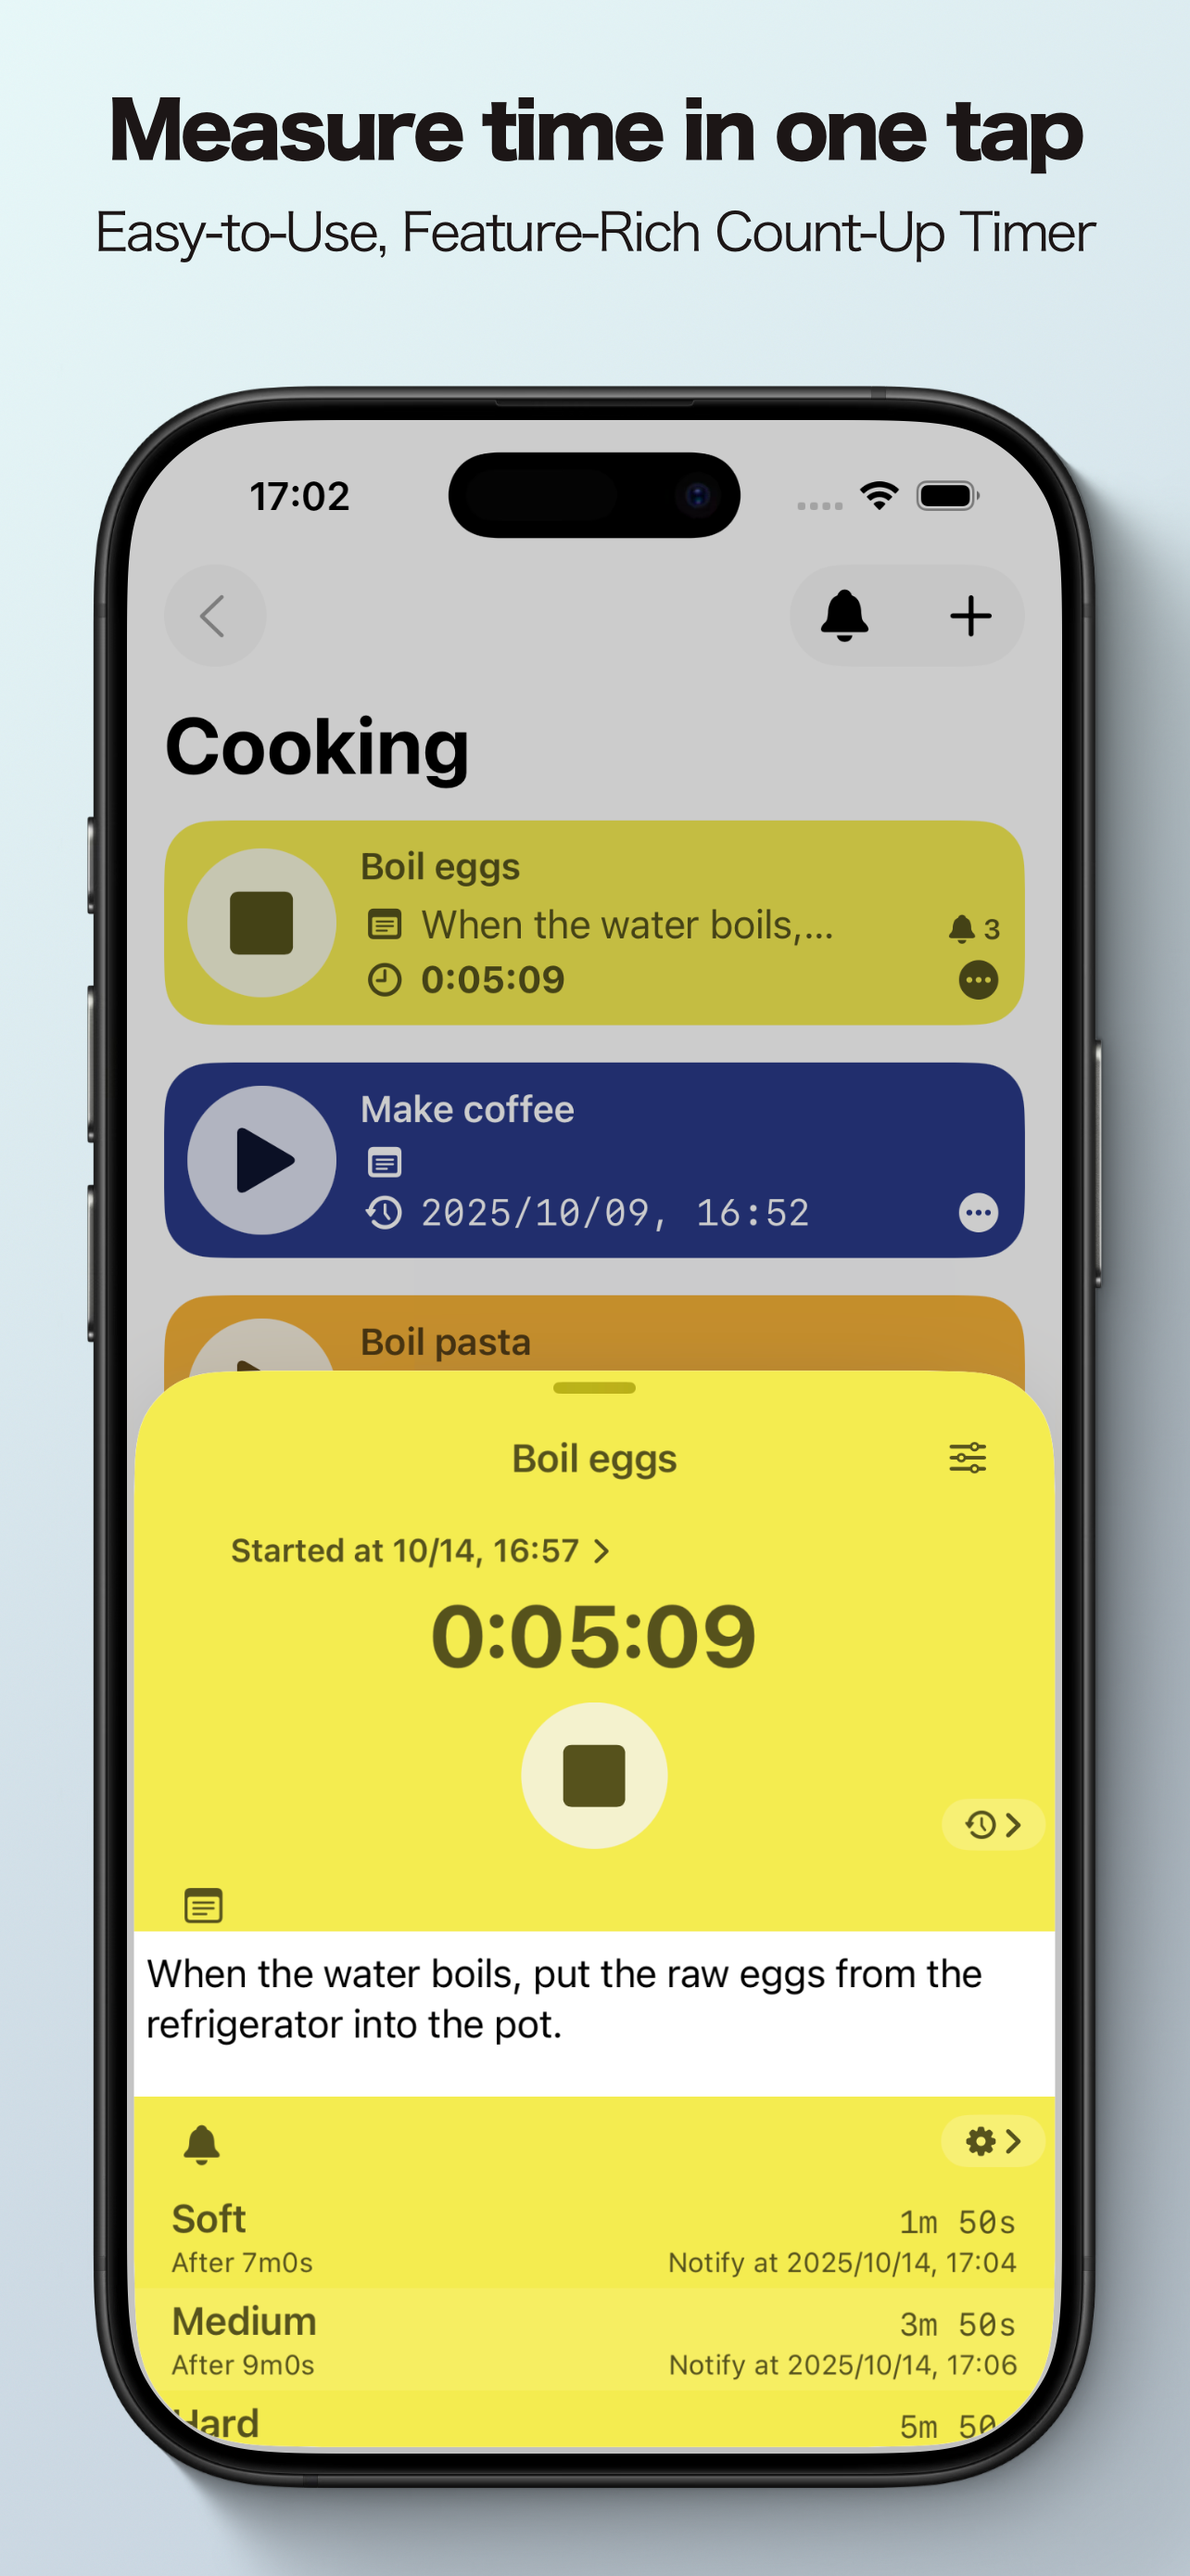
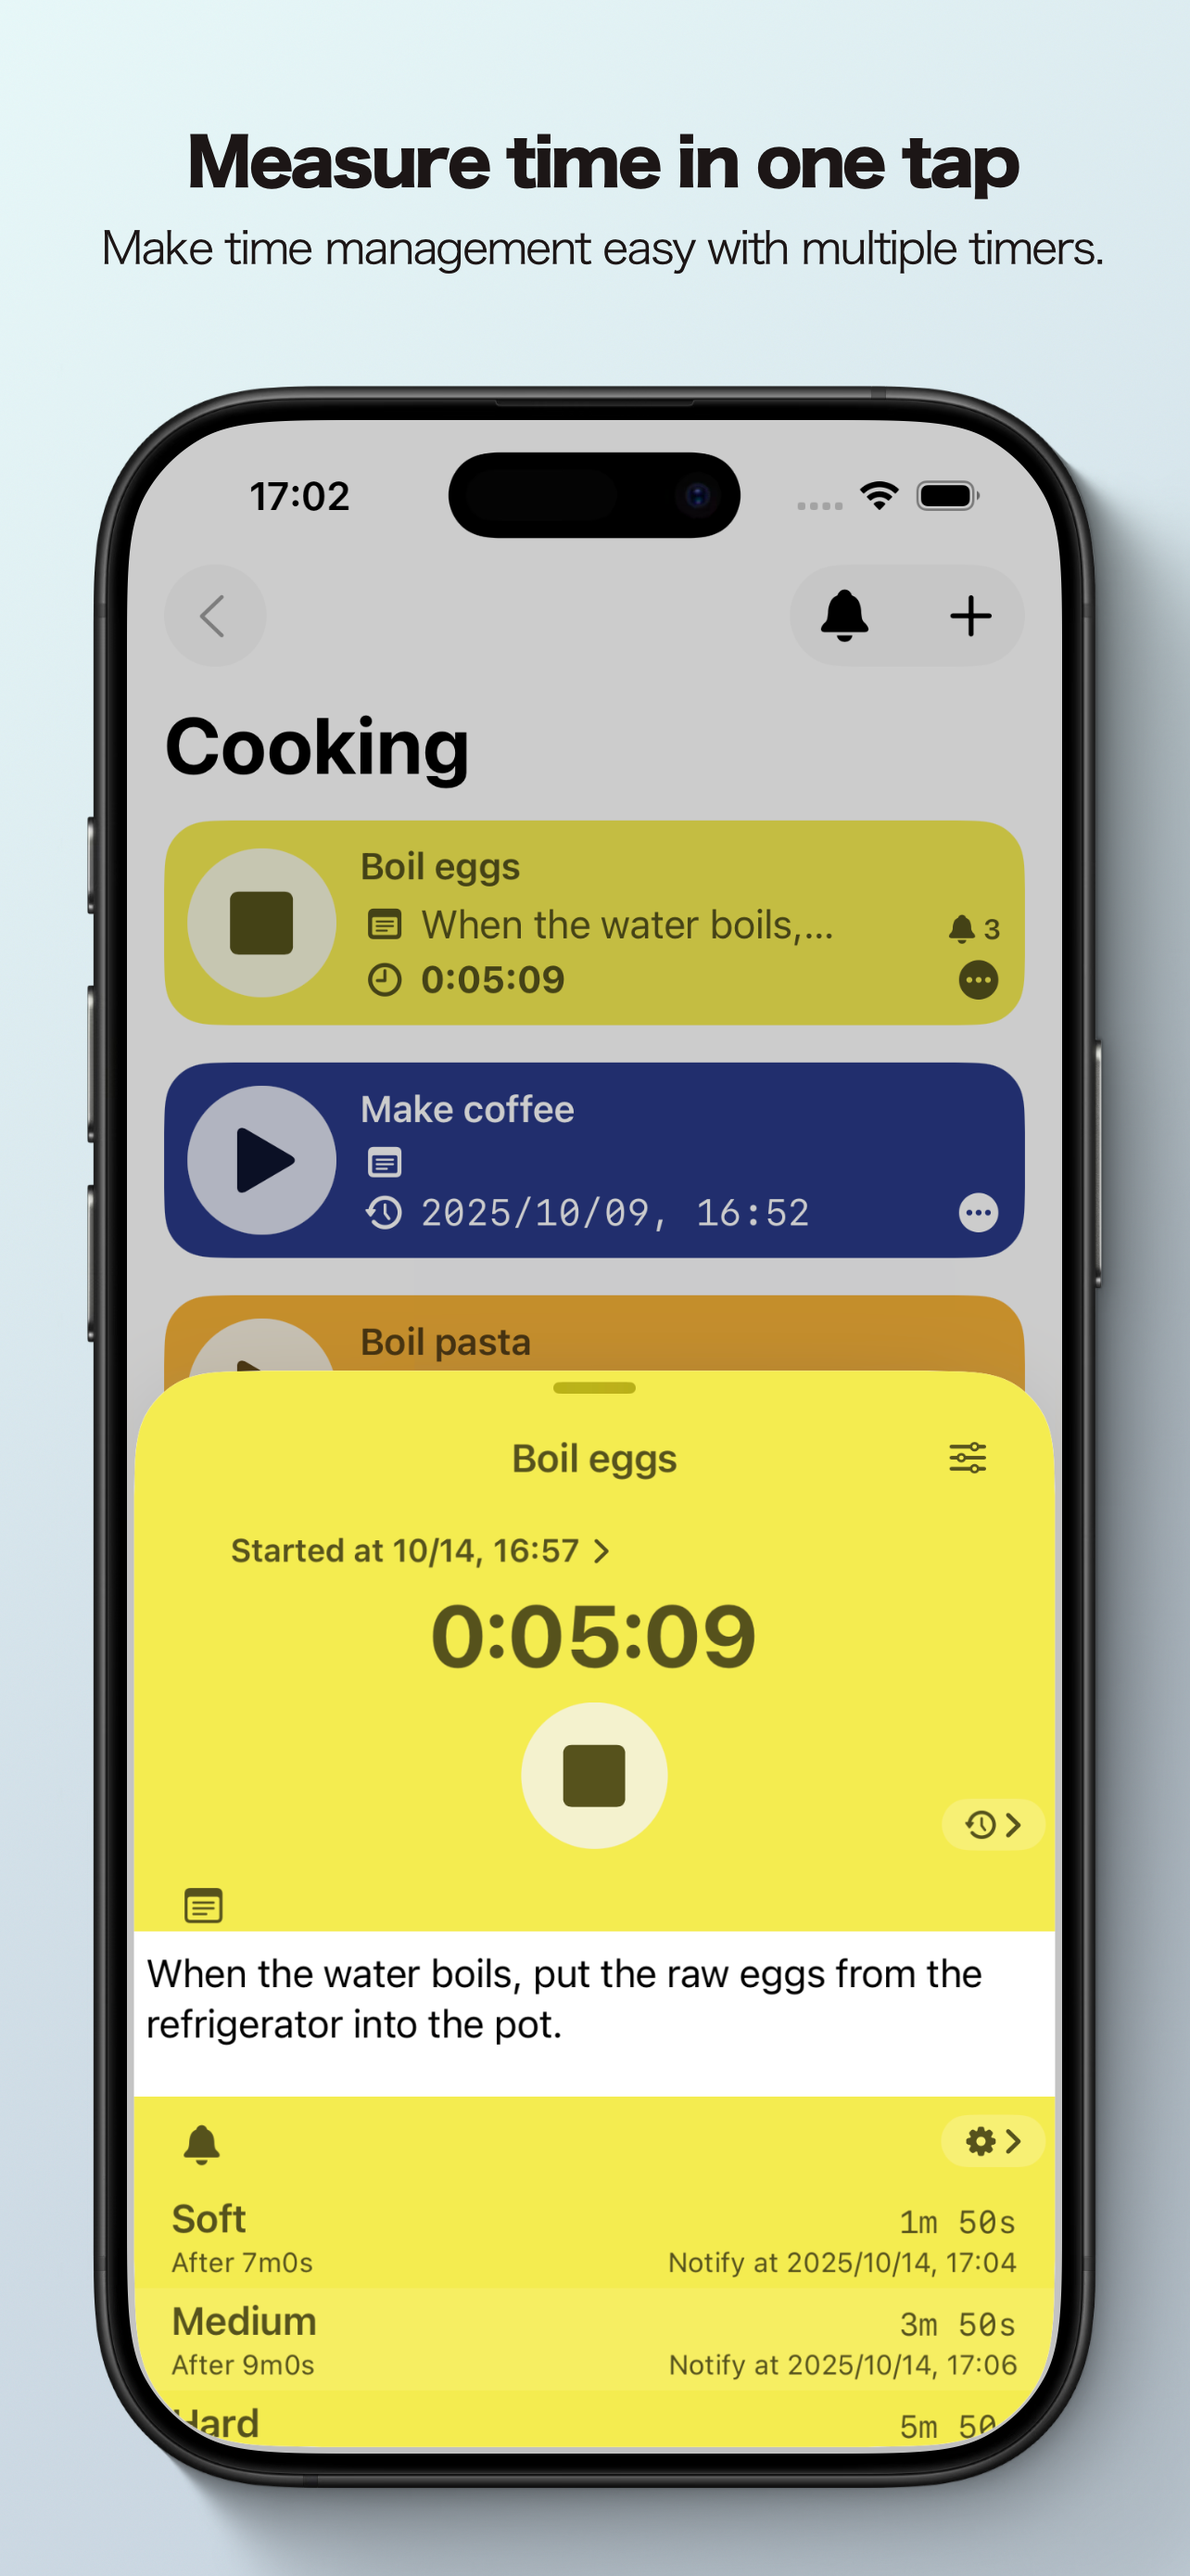
Update product descriptions and elapsed time screenshots
- Refine Japanese description to clarify multiple countdown timers
- Improve English description for better readability
- Update elapsed times screenshots for both languages

Changed region(s): [[0.0935, 0.031, 0.9034, 0.1238]]

diff --git a/site/models/product.rb b/site/models/product.rb
@@ -20,7 +20,9 @@ Product = Data.define(
           desc_ja: <<~MD,
             時間を測りたい、そう思ったらワンタップで計測開始。
 
-            通知設定により複数のタイマーを同時進行。便利なメモ機能や履歴機能も。
+            複数のカウントアップタイマーを同時進行。時間になったら通知でお知らせ。
+
+            便利なメモ機能や履歴機能も。
 
             機能概要
             ======
@@ -40,9 +42,11 @@ Product = Data.define(
             * ダークモード対応
           MD
           desc_en: <<~MD,
-            Measure time in one tap.
+            Need to time something? Just tap and go.
 
-            Multiple timers, seamless notifications, and a simple way to record notes and history.
+            Use multiple timers at once, get notified when they’re done,
+
+            and keep notes or check your past records easily.
 
             Features overview
             ==============
